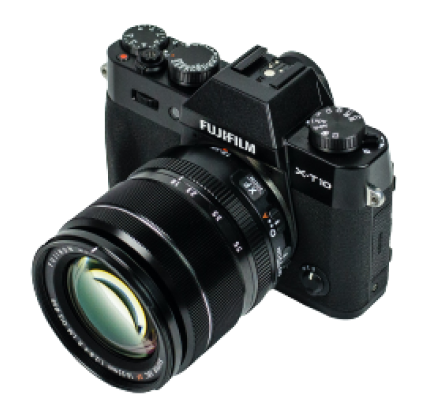
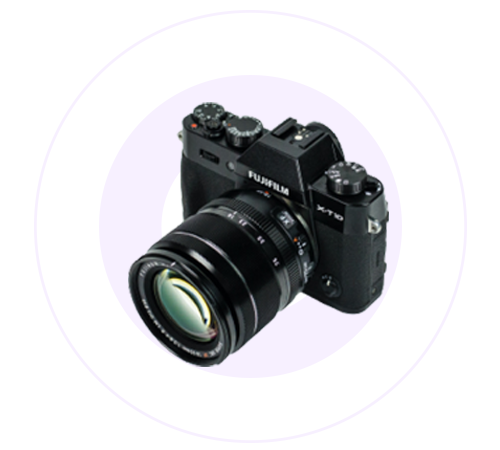
responsive css added

diff --git a/styles/style.css b/styles/style.css
@@ -74,6 +74,9 @@ body {
 .button {
   width: 196px;
   height: 44px;
+  display: flex;
+  justify-content: center;
+  align-items: center;
   margin-top: 16px;
   background-color: var(--button-color);
   border: none;
@@ -100,11 +103,8 @@ body {
   color: var(--button-text-color);
   margin-left: 8px;
 }
-.influencer-photo,
-.camera {
-  position: absolute;
-  top: 0;
-  right: 0;
+.influencer-photo {
+  position: relative;
   animation-name: header-photo;
   animation-duration: 3s;
 }
@@ -115,6 +115,9 @@ body {
   100% {
     right: 0%;
   }
+}
+.camera {
+  margin-left: 133px;
 }
 
 /* style brand section */
@@ -247,4 +250,67 @@ body {
   border-radius: 50%;
   margin-right: 15px;
   background-color: #23213c;
+}
+/*responsive mobile Device */
+@media only screen and (max-width: 425px) {
+  .products {
+    grid-template-columns: repeat(1, 1fr) !important;
+  }
+}
+/* tablet device */
+
+@media only screen and (max-width: 768px) {
+  .header-area {
+    width: 100%;
+    padding: 0 16px 0 16px;
+  }
+  .influencer-details {
+    order: 2;
+  }
+  .influencer-photo {
+    order: 1;
+  }
+  .logo {
+    text-align: center;
+  }
+  .influencer {
+    height: 100%;
+    grid-template-columns: repeat(1, 1fr);
+  }
+  .influencer-details h1 {
+    font-size: 28px;
+    line-height: 42px;
+    text-align: center;
+  }
+  .influencer-details p {
+    font-size: 14px;
+    line-height: 21px;
+    text-align: center;
+    margin-bottom: 20px;
+  }
+  .button {
+    margin: 0 auto;
+  }
+  .camera {
+    width: 100%;
+    margin-left: 0;
+  }
+  .brand {
+    width: 100%;
+    height: 100%;
+    grid-template-columns: repeat(3, 1fr);
+  }
+  .container {
+    width: 100%;
+    padding: 0 16px 0 16px;
+  }
+  .products {
+    grid-template-columns: repeat(2, 1fr);
+  }
+  .product-item {
+    width: 100%;
+  }
+  .brand-item {
+    padding: 15px 11px;
+  }
 }

diff --git a/index.html b/index.html
@@ -37,7 +37,6 @@
         </div>
         <div class="influencer-photo">
           <img class="camera" src="images/main-camera.png" alt="" />
-          <img class="Circle" src="images/Circle design.svg" alt="" />
         </div>
       </section>
     </header>
